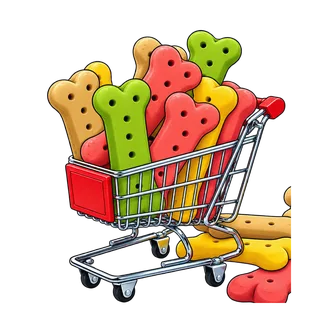
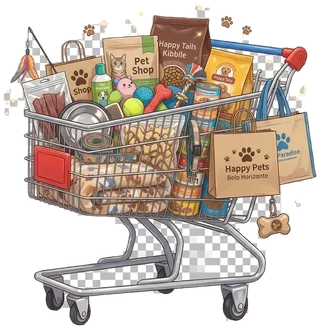
feat(web): replace Loja card image with the full stocked-cart photo
User supplied a new, richer photo for the Loja card — a cart full of
actual pet-shop products (kibble bag, treats, toys, leash, shampoo,
branded paper/kraft bags, paw-print decorations) instead of the
bone-biscuits-only version from #43/#44. Same checkerboard-JPEG
extraction as the other cards; this one was clean on the first pass —
high-saturation content throughout meant no glass/reflection
ambiguity like the Vacina image had. One large patch that looked like
a leftover checker artifact turned out to be the cart's own open
metal-frame lattice (real negative space, confirmed by zooming into
the source) — left alone.

Also proactively pixel-matched the card's text padding to the image's
actual footprint (pr-[48px]/pr-[58px], same fix as #48) since this
card's title is a dynamic, potentially-long "Loja do/da {petName}" —
same overlap risk the Cuidados card had, just not yet triggered here.
Verified with a long two-word pet name at 320/360/420px: title wraps
and truncates without ever touching the image.

diff --git a/apps/web/src/components/AppleControlButtons.tsx b/apps/web/src/components/AppleControlButtons.tsx
@@ -200,7 +200,7 @@ export function AppleControlButtons({
                 className="h-10 w-10 object-contain min-[390px]:h-12 min-[390px]:w-12"
               />
             </span>
-            <div className="flex h-full flex-col justify-center pr-6 pt-2 text-left min-[390px]:pr-7 min-[390px]:pt-3">
+            <div className="flex h-full flex-col justify-center pr-[48px] pt-2 text-left min-[390px]:pr-[58px] min-[390px]:pt-3">
               <h3 className="line-clamp-2 text-[13px] font-bold leading-tight text-blue-950 min-[390px]:text-[14px] sm:text-base">{shoppingTitle}</h3>
               <p className="mt-0.5 line-clamp-1 text-[9px] leading-[1.1] text-blue-900/75 min-[390px]:line-clamp-2 min-[390px]:text-[10px] sm:text-xs">Tudo que {petName || 'seu pet'} usa</p>
             </div>
